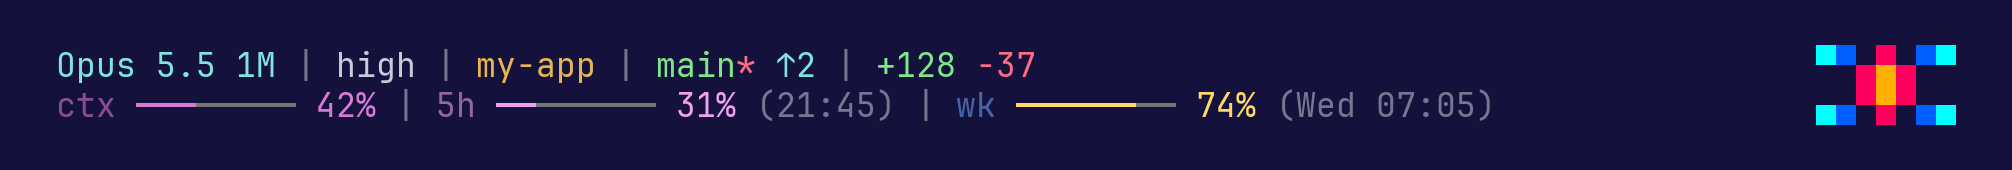
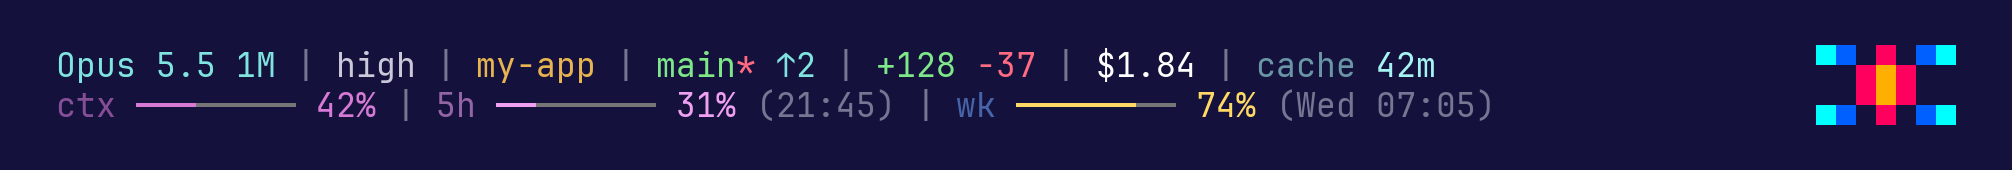
Add cost and prompt-cache segments, shrink lines to fit
- Show session cost ($1.84) and prompt-cache time left (cache 42m),
  yellow under 5 minutes and "cache cold" once expired
- Shed detail per row until it fits COLUMNS instead of being truncated
  by Claude Code: drop cache, lines, effort, cost on row 1; reset times,
  half bars, no bars on row 2
- Rename FLAKE_MARGIN to RIGHT_MARGIN now that it applies to all text
- Update README and screenshot

Changed region(s): [[0.5239, 0.2941, 0.7087, 0.4706]]

diff --git a/README.md b/README.md
@@ -10,7 +10,7 @@ The status line spans two rows, with the session snowflake (see the
 screenshot) right-aligned beside them:
 
 ```
-Opus 5.5 1M | high | my-app | main* ↑2 | +128 -37
+Opus 5.5 1M | high | my-app | main* ↑2 | +128 -37 | $1.84 | cache 42m
 ctx ━━━━━━━━ 42% | 5h ━━━━━━━━ 31% (21:45) | wk ━━━━━━━━ 74% (Wed 07:05)
 ```
 
@@ -23,6 +23,8 @@ ctx ━━━━━━━━ 42% | 5h ━━━━━━━━ 31% (21:45) | wk 
 | Directory | `my-app` | Current working directory name |
 | Git | `main* ↑2 ↓1` | Branch, `*` if dirty, commits ahead/behind upstream; `no git` outside a repo |
 | Lines changed | `+128 -37` | Hidden until something changes |
+| Cost | `$1.84` | Session cost so far |
+| Prompt cache | `cache 42m` | Minutes until the prompt cache expires; yellow under 5 minutes, `cache cold` once expired, hidden before the first request |
 
 **Row 2: usage** (omitted when there's no usage data)
 
@@ -41,6 +43,14 @@ session id, so each session gets its own shape and colors: the arm pattern
 starting hue, direction and spacing all seeded. It's a progressive
 enhancement: if the terminal is too narrow to fit it beside the text, it's
 simply left out.
+
+**Narrow terminals**
+
+Rather than letting Claude Code cut lines off with `…`, each row sheds
+detail until it fits. Row 1 drops the cache timer, then lines changed, then
+effort, then cost. Row 2 drops the reset times, then halves the bars, then
+drops the bars entirely. The snowflake only appears when there's room left
+over at full detail.
 
 Usage bars turn yellow at 70% and red at 90%. The rate-limit segments only
 appear on Claude subscription plans, once the first response has come back.
@@ -78,11 +88,12 @@ Edit the variables near the top of the rendering section in `statusline.sh`:
 
 - `WARN_PCT` / `CRIT_PCT`: thresholds for yellow and red bars (default `70` / `90`)
 - `BAR_WIDTH`: number of cells in each bar (default `8`)
+- `CACHE_WARN_MINS`: minutes left at which the cache timer turns yellow (default `5`)
 - `COLOR_*`: ANSI colors for each segment
 - `FLAKE_GAP`: minimum spaces between the text and the snowflake (default `2`)
-- `FLAKE_MARGIN`: columns kept free at the right edge (default `5`). Claude
+- `RIGHT_MARGIN`: columns kept free at the right edge (default `5`). Claude
   Code indents the status line and truncates overflow with `…`, so raise this
-  if the snowflake gets cut off.
+  if lines or the snowflake get cut off.
 
 To try a change without waiting for Claude Code, pipe sample JSON in (set `COLUMNS`, which Claude Code normally provides, to
 see the snowflake):
